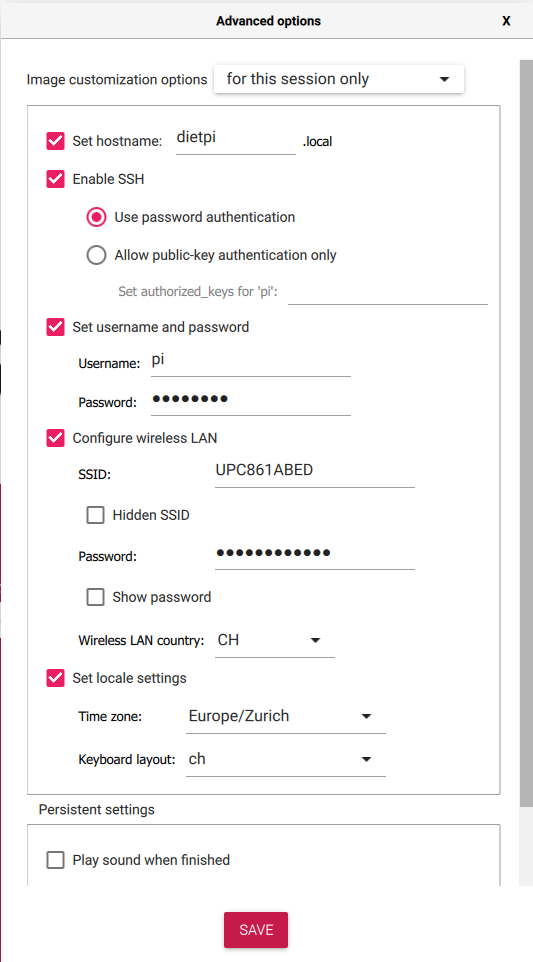
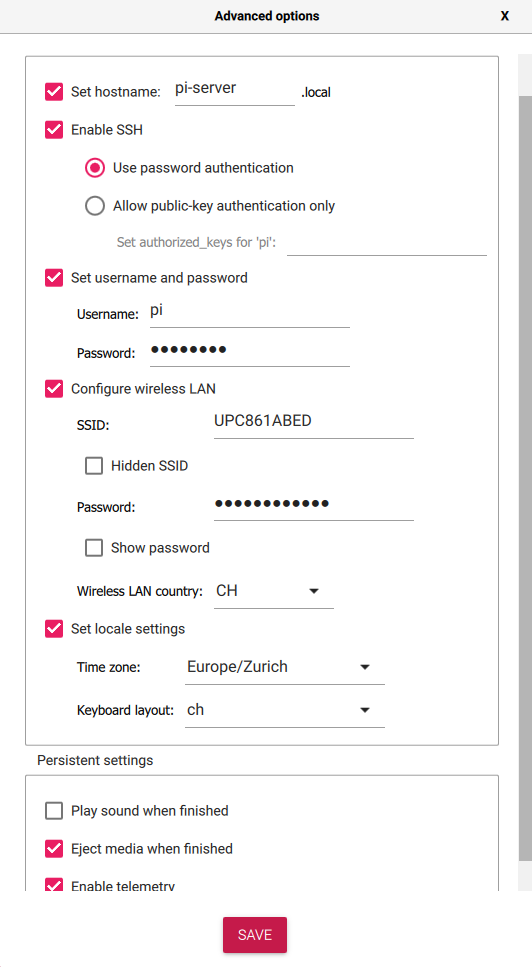
group 02 - changed OS and added ssh part

diff --git a/topics/02_raspPI/README.md b/topics/02_raspPI/README.md
@@ -8,40 +8,25 @@ TODO:
  - [] port forwarding / firewall (Lukas)
 
 
-This tutorial will teach you, how to set up and use the `DietPi OS` on a `Raspberry Pi Zero W v1.1`.
-
-## Get Image
-
-Open the [Download Section](https://dietpi.com/#download) of the official DietPi Website. Select the Raspberry Pi in the device selection and download the `ARMv6 32-bit image`. 
-
-Unzip the 7z archive using tool like [7-Zip](https://www.7-zip.org/download.html) to extract the .img file.
+This tutorial will teach you, how to set up a web server on a `Raspberry Pi Zero W v1.1`.
 
 ## Write Image to SD-Card
 
 Open the Raspberry Pi Images.
 
-![Install a custom image](images/custom_img_1.png)
-
-As an Operating System, select `Use custom` and find your extracted .img file.
+As an Operating System, select `Raspberry Pi OS Lite (32-Bit)`.
 
 Select the SD-card in your card reader where the image will be installed. 
 
 > **WARNING**: Make sure to back up your SD-card, if you already have a Raspberry Pi installation or other data that you want to keep. This process is explained [here](https://raspberryexpert.com/how-to-backup-raspberry-pi/).
 
-Write the image to your SD-card. 
+![Advanced options](images/advanced_options.png)
 
-When this was done sucessfully, open the SD-card in your file explorer and find the configuration file `dietpi.txt`.
+In the advanced options, you can enable ssh and configure wifi, so that the raspberry pi will automatically connect to your local network.
 
-Change to following lines to enable wifi:
+We also change the hostname to `pi-server` to differentiate it from other raspberry pi on the same network.
 
-    AUTO_SETUP_NET_WIFI_ENABLED=1
-    AUTO_SETUP_NET_WIFI_COUNTRY_CODE=CH
-
-You also have to specify which wifi network to connect to. 
-This is possible in the file `dietpi-wifi.txt`.
-
-    aWIFI_SSID[0]='NameEuresWLANs'
-    aWIFI_KEY[0]='Euer WLAN-Schlüssel'
+After making sure, that your configuration is correct, flash the image to your SD-card. 
 
 You are now ready to insert the SD-card into your raspberry pi and connect it to the power.
 
@@ -49,4 +34,16 @@ You are now ready to insert the SD-card into your raspberry pi and connect it to
 
 ## Connect to your raspberry pi
 
-If you are connected to the same wireless network that you configured for your raspberry pi, you should be able to detect your device.
+If you are connected to the same wireless network that you configured for your raspberry pi, you should be able to detect your device if it had enough time to boot.
+
+    ping pi-server
+
+If you succeed in pinging the raspberry pi, you also see its ip address on the network. Note this address for later.
+
+You can now connect to your raspberry pi from the command line and log in with your password.
+
+    ssh pi@pi-server
+
+![](images/ssh_success.png)
+
+Alternatively, if you are on Windows, you can use a tool like [PuTTY](https://www.putty.org/) to open an ssh connection to the raspberry pi. There it is also possible to save multiple connections and login credentials.
